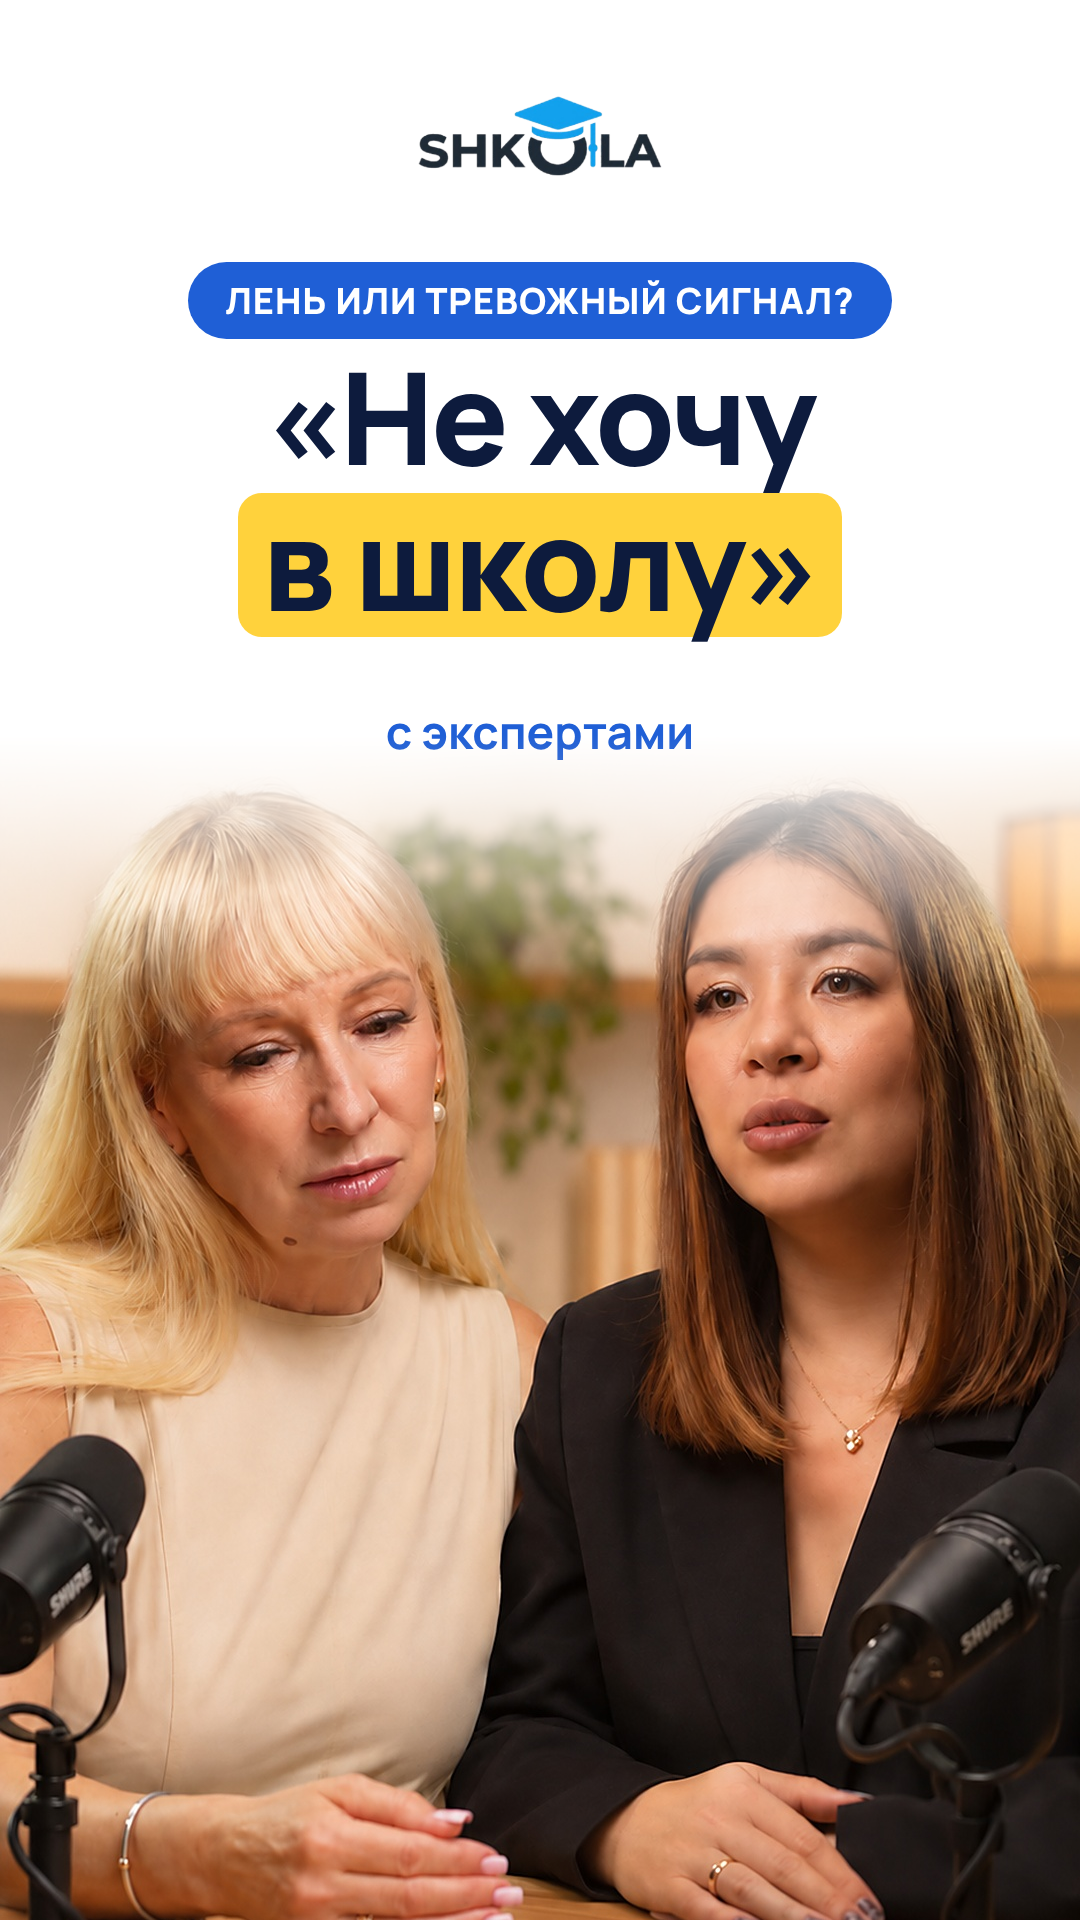
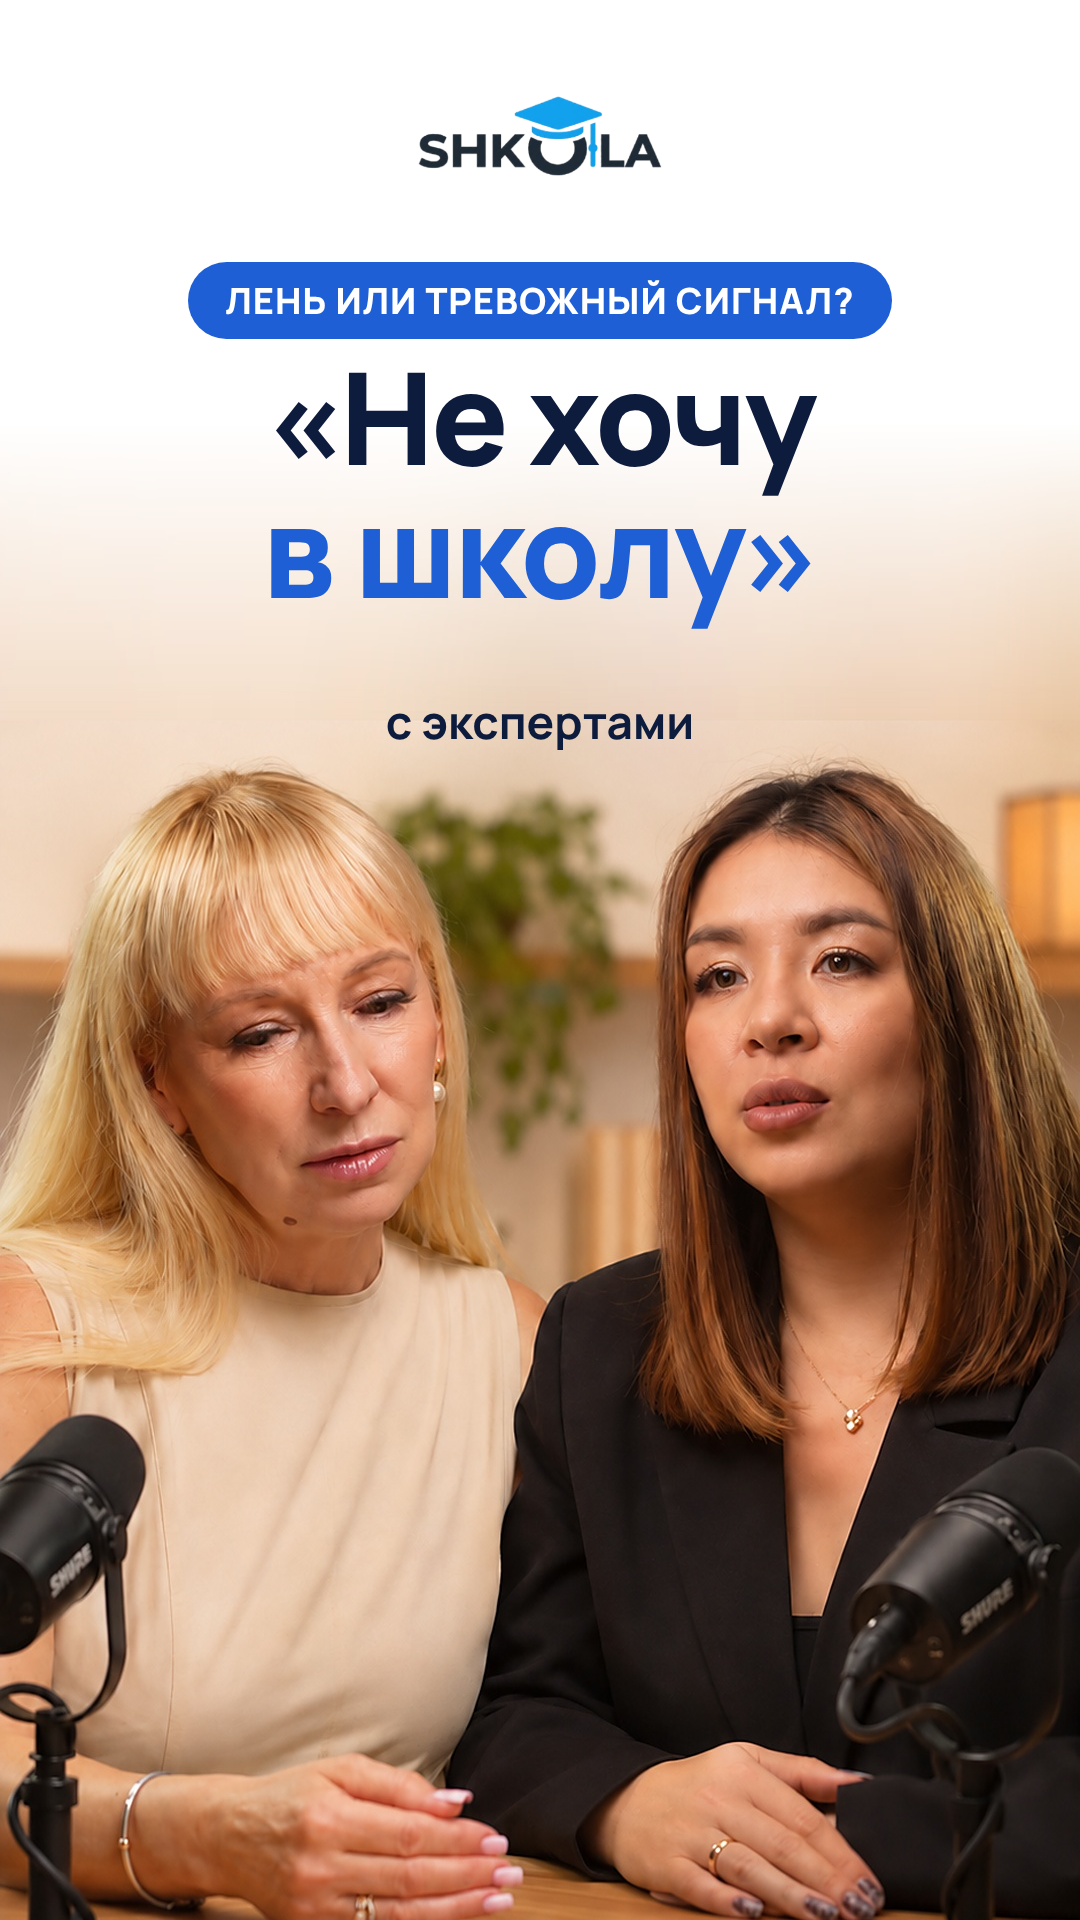
Reel cover: white fade above faces, no yellow highlight
Claude-Session: https://claude.ai/code/session_01EUhV7x1P3xabAX3GuSkHDE

diff --git a/reel-cover-school/gen_w2.js b/reel-cover-school/gen_w2.js
@@ -1,0 +1,20 @@
+const {chromium}=require('playwright');const fs=require('fs');
+const F='/tmp/claude-0/-home-user-TEST1/513f869e-9292-59bf-9428-803d9243f8db/scratchpad/build/node_modules/@fontsource/manrope/';
+const css=['cyrillic-500','cyrillic-700','cyrillic-800','latin-500','latin-700','latin-800'].map(s=>`@import url("${F}${s}.css");`).join('');
+const html=`<!doctype html><meta charset=utf-8><style>${css}*{margin:0;box-sizing:border-box}
+body{width:1080px;height:1920px;position:relative;overflow:hidden;font-family:Manrope;color:#0d1b3d;background:#fff}
+.logo,.pill,h1,.sub{z-index:2}.logo{position:absolute;top:96px;left:0;right:0;text-align:center}.logo img{height:80px}
+.pill{position:absolute;top:262px;left:0;right:0;text-align:center}
+.pill span{display:inline-block;background:#1f5fd6;color:#fff;font:800 36px Manrope;padding:14px 38px;border-radius:60px;letter-spacing:1px;box-shadow:none}
+h1{position:absolute;top:350px;left:0;right:0;text-align:center;font:800 128px/1.04 Manrope;letter-spacing:-3px}
+h1 span{color:#1f5fd6}
+.sub{position:absolute;top:690px;left:0;right:0;text-align:center;font:700 46px Manrope;color:#0d1b3d}
+.band{z-index:0;position:absolute;left:0;bottom:-70px;width:1080px;-webkit-mask-image:linear-gradient(to bottom,transparent 0,#000 300px);mask-image:linear-gradient(to bottom,transparent 0,#000 300px)}
+</style>
+<div class=logo><img src="logo.png"></div>
+<div class=pill><span>ЛЕНЬ ИЛИ ТРЕВОЖНЫЙ СИГНАЛ?</span></div>
+<h1>«Не хочу<br><span>в школу»</span></h1>
+<div class=sub>с экспертами</div>
+<img class=band src="people2.jpg">`;
+(async()=>{const b=await chromium.launch();const pg=await b.newPage({viewport:{width:1080,height:1920}});
+const p=process.cwd()+'/cover_w2.html';fs.writeFileSync(p,html);await pg.goto('file://'+p);await pg.waitForTimeout(900);await pg.screenshot({path:'cover_w2.png'});await b.close();})();
